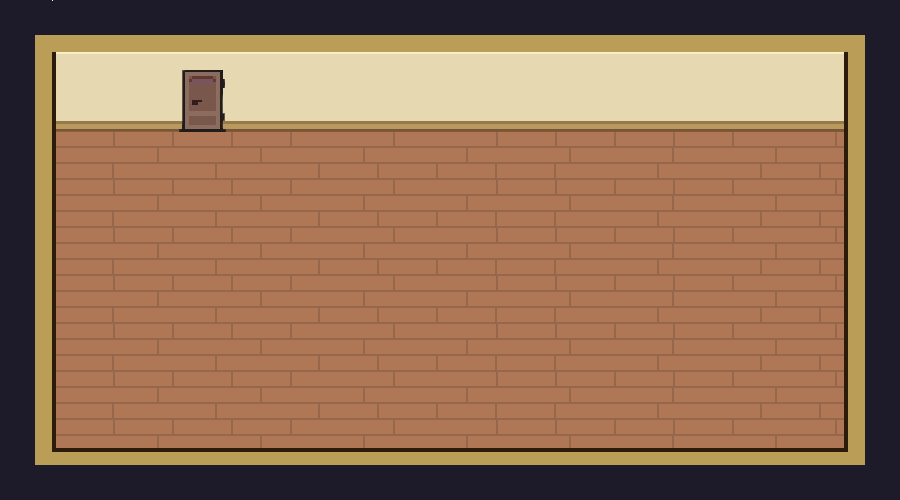
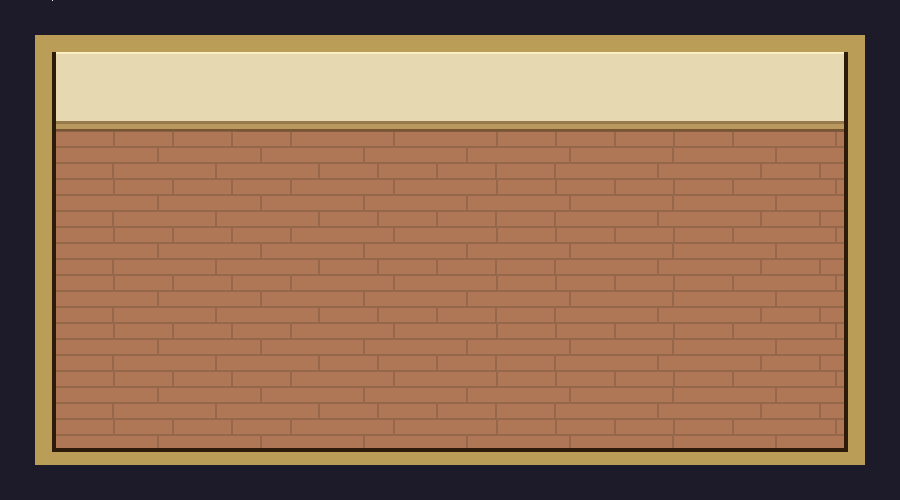
Add function that changes the door texture when colliding

Changed region(s): [[0.1867, 0.12, 0.2489, 0.27]]

diff --git a/t9am-Green/map.cpp b/t9am-Green/map.cpp
@@ -2,8 +2,8 @@
 
 Map::Map() {
 	mapTexture = LoadTexture("Graphics/map1.png"); //Contains the map texture
-	doorTexture = LoadTexture("Graphics/door1.png"); //Contains the door texture
-	door = { 500, 70, (float)doorTexture.width, (float)doorTexture.height + 50.f };
+	doorTexture = LoadTexture("Graphics/Door.png"); //Contains the door texture
+	door = { 170, 70, (float)doorTexture.width, (float)doorTexture.height};
 }
 
 void Map::Draw() { //Draws the map with its elements on the screen
@@ -11,6 +11,19 @@ void Map::Draw() { //Draws the map with its elements on the screen
 DrawTexture(mapTexture, 0, 0, WHITE); //Draws the map on the screen
 DrawTexture(doorTexture, door.x, door.y, WHITE); //Draws the door on the screen
 
+}
+
+void Map::UpdateDoor(Rectangle CollidingObject)
+{
+	if (CheckCollisionRecs(door, CollidingObject))
+	{
+		doorTexture = LoadTexture("Graphics/DoorColliding.png");
+
+	}
+	else 
+	{
+		doorTexture = LoadTexture("Graphics/Door.png");
+	}
 }
 
 

diff --git a/t9am-Green/game.cpp b/t9am-Green/game.cpp
@@ -7,6 +7,7 @@ Game::Game() {
 void Game::Update() {
 	Rectangle CharacterRec = character.getTextureRect();
 	mapHitbox.CheckForColliding(CharacterRec);
+	map.UpdateDoor(CharacterRec);
 	character.Update(CharacterRec.x, CharacterRec.y);
 }
 
@@ -14,3 +15,4 @@ void Game::Draw() {
 	map.Draw();
 	character.Draw();
 }
+

diff --git a/t9am-Green/map.h b/t9am-Green/map.h
@@ -5,6 +5,8 @@ class Map {
 public:
 	Map();
 	void Draw();
+	void UpdateDoor(Rectangle CollidingObject);
+
 private:
 	Texture2D mapTexture;
 	Texture2D doorTexture;
